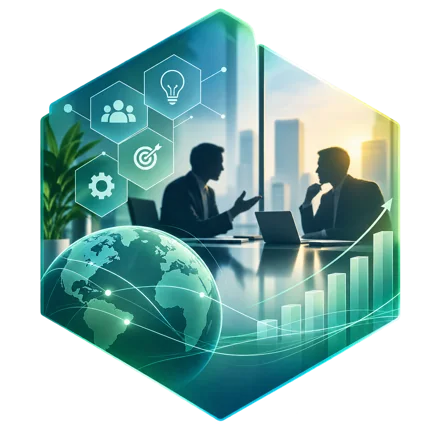
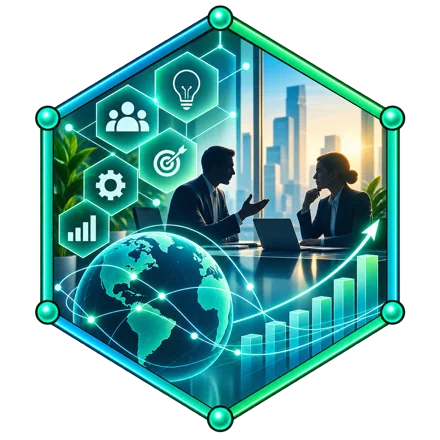
feat(servicios): reequilibra el reposo del panal hacia la ilustración
La ilustración sube del 42 al 68% y el rótulo baja al 74%. Es el reparto
inverso entre los dos estados —en reposo manda la imagen, encendida manda
todo— así que sigue habiendo un protagonista por estado y no dos
disputándose el mismo sitio.

Ese cambio obliga a un tercero: el velo del rótulo ya no puede esperar a
la celda encendida. Con la ilustración al 68% detrás y el texto al 74%
delante, en reposo hace falta la mitad del velo para que el rótulo se
sostenga; antes la imagen estaba tan apagada que no hacía falta ninguno.

Y entra una consultoría nueva: la escena se lee mejor a 205 px y la
composición manda al ojo al centro en vez de dispersarlo.

Claude-Session: https://claude.ai/code/session_01DeHUkcUH98W6zHbzmZ2T3B

diff --git a/src/routes/servicios/+page.svelte b/src/routes/servicios/+page.svelte
@@ -1552,12 +1552,12 @@
 		 * invierte. Ese par de estados es lo que hace legible el panal: antes el
 		 * texto peleaba contra la imagen en los dos, y perdía en los dos.
 		 */
-		opacity: 0.42;
+		opacity: 0.68;
 		transition: opacity 0.45s var(--gl-ease);
 	}
 	.sv-hex:hover .sv-hex-img,
 	.sv-hex:focus-visible .sv-hex-img {
-		opacity: 0.68;
+		opacity: 0.86;
 	}
 	.sv-hex.is-activa .sv-hex-img {
 		opacity: 1;
@@ -1582,7 +1582,7 @@
 			rgba(4, 16, 22, 0.45) 58%,
 			transparent 78%
 		);
-		opacity: 0;
+		opacity: 0.5;
 		pointer-events: none;
 		transition: opacity 0.45s var(--gl-ease);
 	}
@@ -1599,6 +1599,11 @@
 		transition: opacity 0.4s var(--gl-ease);
 	}
 
+	/*
+	 * El rótulo se retira en reposo y solo llega a tinta plena en la celda
+	 * encendida. Es el reparto inverso al de la ilustración, así que en cada
+	 * estado hay un protagonista y no dos disputándose el mismo sitio.
+	 */
 	.sv-hex-rotulo {
 		grid-area: 1 / 1;
 		align-self: center;
@@ -1606,6 +1611,15 @@
 		justify-items: center;
 		gap: 0.35rem;
 		padding-inline: 14%;
+		opacity: 0.74;
+		transition: opacity 0.45s var(--gl-ease);
+	}
+	.sv-hex:hover .sv-hex-rotulo,
+	.sv-hex:focus-visible .sv-hex-rotulo {
+		opacity: 0.9;
+	}
+	.sv-hex.is-activa .sv-hex-rotulo {
+		opacity: 1;
 	}
 
 	/* El ordinal encabeza el rótulo. Es el mismo motivo 01–06 del índice del
@@ -1617,7 +1631,6 @@
 		letter-spacing: 0.18em;
 		color: var(--celda);
 		text-shadow: 0 1px 8px rgba(4, 16, 22, 0.95);
-		transition: opacity 0.4s var(--gl-ease);
 	}
 
 	.sv-hex-label {
